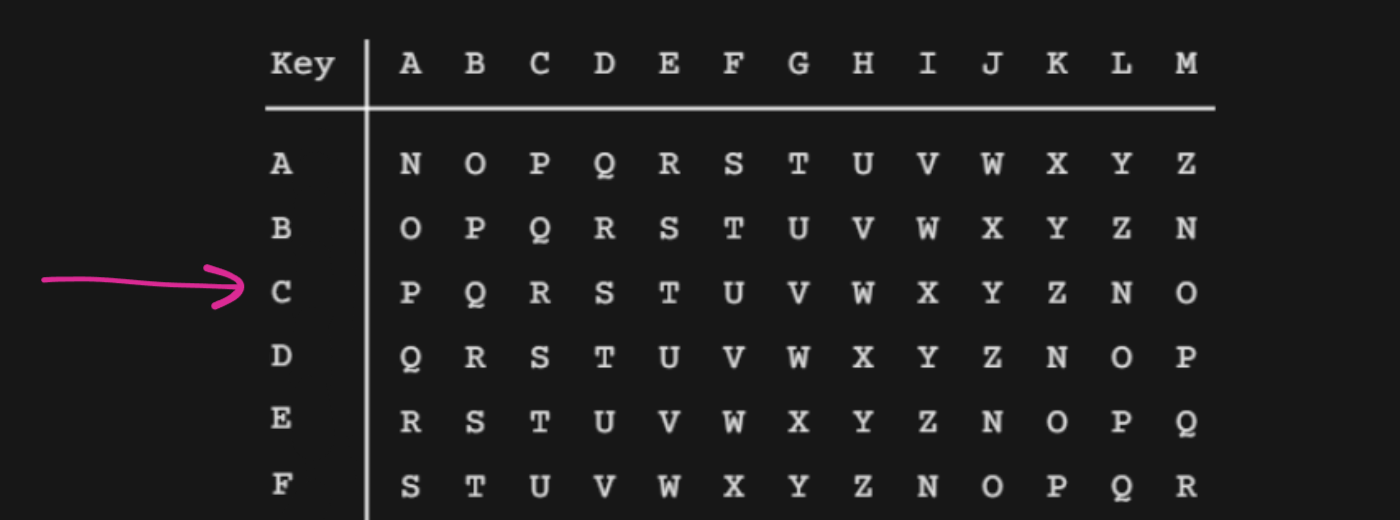
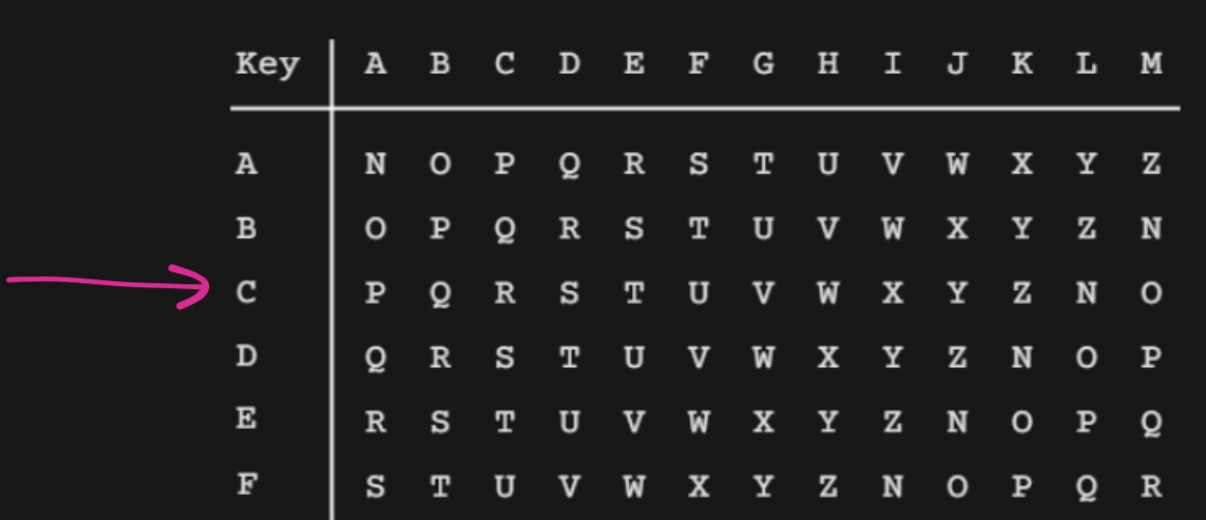
fixed resizing issues with images at lg screen breakpoint

diff --git a/app/(root)/page.js b/app/(root)/page.js
@@ -61,7 +61,7 @@ const Home = () => {
 
   return (
     <Page className="p-4">
-      <Content span="" className="flex flex-col mx-auto xl:w-[95%] w-full lg:w-[55%] md:w-[70%] sm:w-[80%]">
+      <Content span="" className="flex flex-col mx-auto xl:w-[95%] w-full lg:w-[65%] md:w-[70%] sm:w-[80%]">
         <div className="opacity-0 animate-fade-in-1">
           <Paragraph className="p-6 mb-10 rounded-md bg-0-inset">
             <Paragraph.Text bold textSize="lg" className="italic font-light text-center text-white"><Highlight className="">&quot;The Shifting Method&quot;</Highlight> is an algorithmic implementation developed by <Highlight className="">Will</Highlight>, <Highlight className="">Jaylen</Highlight>, and <Highlight className="">Alex</Highlight>, to encrypt and decrypt text using the Della Porta Cipher chart, as part of a college project. This article only focuses on <Link href="#implementation"><Highlight className="underline">our implementation</Highlight></Link> of the conversion algorithm. If you want to learn more about the Della Porta Cipher, <Link href="https://sites.google.com/site/cryptocrackprogram/user-guide/cipher-types/substitution/porta"><Highlight className="underline">click here to visit the source we used.</Highlight></Link></Paragraph.Text>
@@ -223,7 +223,7 @@ const Home = () => {
         </Paragraph>
 
         <Paragraph className="mt-14">
-          <div className="md:w-[600px] md:h-[222px] xl:w-[675px] xl:h-[250px]  w-[80vw] h-[30vw] min-w-[200px] min-h-[100px] relative">
+          <div className="lg:w-[600px] lg:h-[258px] xl:w-[40vw] xl:h-[17vw] max-w-[700px] max-h-[301px] w-[60vw] h-[26vw] min-w-[300px] min-h-[129px] relative">
             <Image
               src="/finding-c.webp"
               fill
@@ -313,7 +313,7 @@ const Home = () => {
         </Paragraph>
 
         <Paragraph className="mt-14">
-          <div className="xl:w-[711px] xl:h-[204px] md:w-[600px] md:h-[172px] min-w-[200px] w-[80vw] h-[23vw] min-h-[57px] relative">
+          <div className="xl:w-[40vw] xl:h-[11.6vw] md:w-[600px] max-w-[700px] max-h-[203px] md:h-[172px] min-w-[200px] w-[80vw] h-[23vw] min-h-[57px] relative">
             <Image
               src="/finding-t.webp"
               fill
@@ -327,7 +327,7 @@ const Home = () => {
         </Paragraph>
 
         <Paragraph className="mt-14">
-          <div className="xl:w-[720px] xl:h-[337px] md:w-[600px] md:h-[281px] min-w-[200px] w-[80vw] h-[37vw] min-h-[94px] relative">
+          <div className="xl:w-[40vw] xl:h-[18.8vw] md:w-[600px] max-w-[700px] max-h-[329px] md:h-[281px] min-w-[200px] w-[80vw] h-[37vw] min-h-[94px] relative">
             <Image
               src="/finding-c-from-t.webp"
               fill
@@ -343,7 +343,7 @@ const Home = () => {
         </Paragraph>
 
         <Paragraph className="mt-14">
-          <div className="xl:w-[750px] xl:h-[278px] md:w-[600px] md:h-[222px] min-w-[200px] w-[80vw] h-[30vw] min-h-[74px] relative">
+          <div className="xl:w-[40vw] xl:h-[14.8vw] md:w-[600px] max-w-[700px] max-h-[259px] md:h-[222px] min-w-[200px] w-[80vw] h-[30vw] min-h-[74px] relative">
             <Image
               src="/row-relationship.webp"
               fill
@@ -359,7 +359,7 @@ const Home = () => {
         </Paragraph>
 
         <Paragraph className="mt-14">
-          <div className="xl:w-[700px] xl:h-[333px] md:w-[600px] md:h-[285px] min-w-[200px] w-[80vw] h-[38vw] min-h-[95px] relative">
+          <div className="xl:w-[40vw] xl:h-[19vw] max-w-[700px] max-h-[333px] md:w-[600px] md:h-[285px] min-w-[200px] w-[80vw] h-[38vw] min-h-[95px] relative">
             <Image
               src="/shift-counting.webp"
               fill
@@ -375,7 +375,7 @@ const Home = () => {
         </Paragraph>
 
         <Paragraph id="relative-row-index" className="mt-14">
-          <div className="xl:w-[700px] xl:h-[287px] md:w-[600px] md:h-[222px] min-w-[200px] w-[80vw] h-[30vw] min-h-[74px] relative">
+          <div className="xl:w-[40vw] xl:h-[16.4vw] max-w-[700px] max-h-[287px] md:w-[600px] md:h-[222px] min-w-[200px] w-[80vw] h-[30vw] min-h-[74px] relative">
             <Image
               src="/t-from-z.webp"
               fill
@@ -433,7 +433,7 @@ const Home = () => {
         </Paragraph>
 
         <Paragraph className="mt-14">
-          <div className="xl:w-[700px] xl:h-[245px] md:w-[600px] md:h-[210px] min-w-[200px] w-[80vw] h-[28vw] min-h-[70px] relative">
+          <div className="xl:w-[40vw] xl:h-[14.16vw] max-w-[700px] max-h-[245px] md:w-[600px] md:h-[210px] min-w-[200px] w-[80vw] h-[28vw] min-h-[70px] relative">
             <Image
               src="/letter-snap-back.webp"
               fill

diff --git a/app/globals.css b/app/globals.css
@@ -125,3 +125,5 @@ input::placeholder {
 body {
   background: var(--bg-color-0);
 }
+
+
